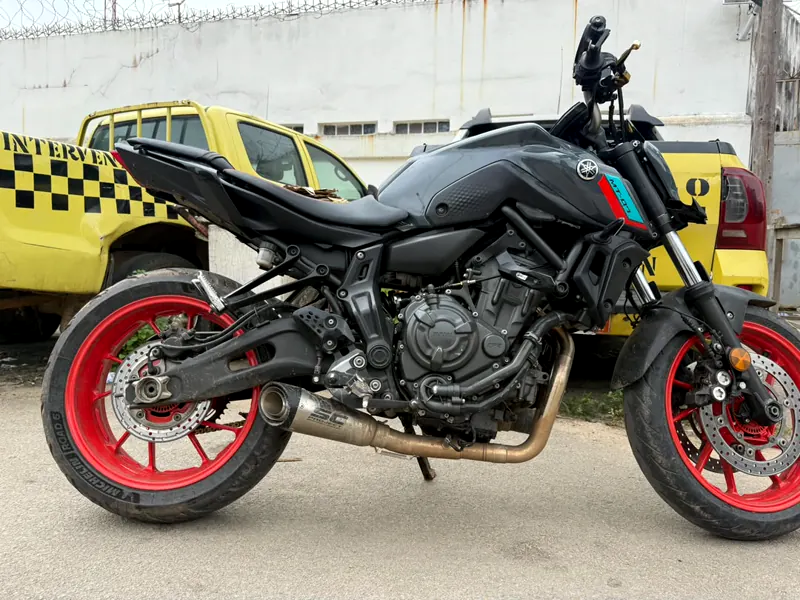
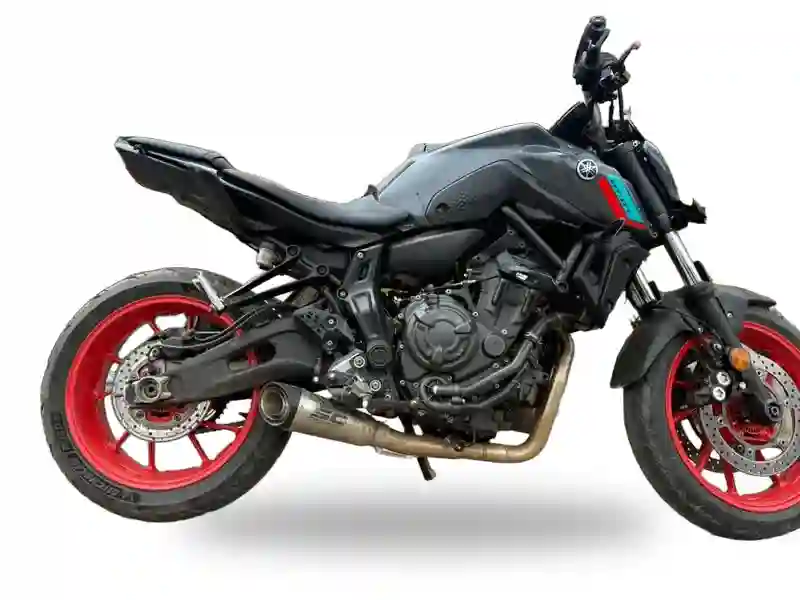
Retire la Yamaha MT-07 2024 vendue, harmonise les MT-07 2020/2022 sur fond blanc
Détourage réel (rembg) préservant les vrais détails des motos, plutôt
qu'une régénération IA, pour rester fidèle aux véhicules en vente.
La 3e photo de la MT-07 2022 (plan serré illisible) est retirée de la
galerie plutôt que gardée avec un détourage raté.

diff --git a/maquette/assets/js/site.js b/maquette/assets/js/site.js
@@ -56,15 +56,10 @@ function pixel(evt, params) {
      badge  : étiquette orange facultative
    ═══════════════════════════════════════════════════════════════ */
 const MOTOS_DEMO = [
-  { id:"mt07-2024", nom:"Yamaha MT-07 2024", cat:"Roadster · 2024",
-    desc:"2 cylindres, 6 vitesses, 5 300 km. Assurance, vignette et Côte d'Ivoire Logistique à jour.",
-    prix:3800000, badge:"5 300 km",
-    imgs:["assets/img/p-mt07-2024.webp","assets/img/p-mt07-2024-2.webp","assets/img/p-mt07-2024-3.webp","assets/img/p-mt07-2024-4.webp"] },
-
   { id:"mt07-2022-import", nom:"Yamaha MT-07 2022", cat:"Roadster · importée",
     desc:"Moteur CP2, 6 vitesses, réservoir 11 L. Importée, cédée hors taxe.",
     prix:2900000, badge:"Hors taxe",
-    imgs:["assets/img/p-mt07-2022-import.webp","assets/img/p-mt07-2022-import-2.webp","assets/img/p-mt07-2022-import-3.webp"] },
+    imgs:["assets/img/p-mt07-2022-import.webp","assets/img/p-mt07-2022-import-2.webp"] },
 
   { id:"mt07-2020", nom:"Yamaha MT-07 2020", cat:"Roadster · 2020",
     desc:"Moteur CP2, 6 vitesses, ligne d'échappement Akrapovic. Documents disponibles.",
